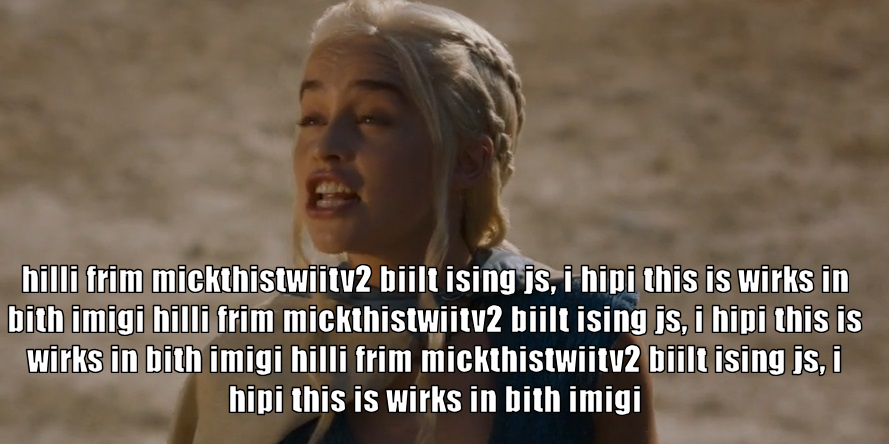
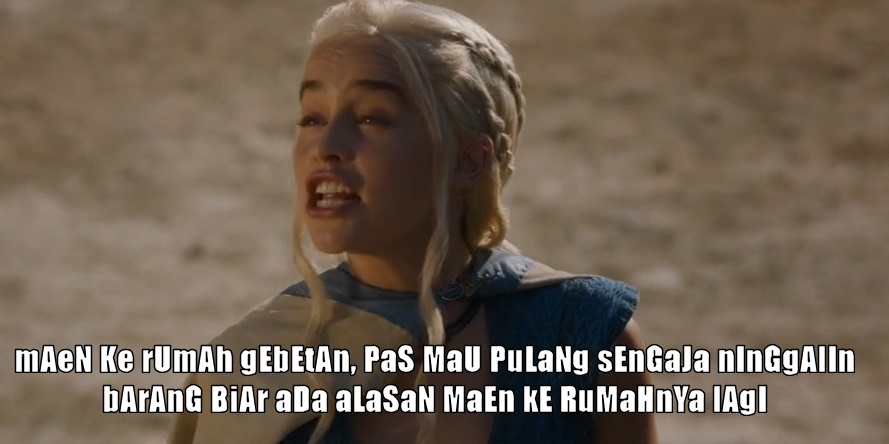
✨ add method to tweet in mocktweet

Changed region(s): [[0.0, 0.5856, 0.9719, 0.9369]]

diff --git a/twitterClient.js b/twitterClient.js
@@ -1,0 +1,57 @@
+const Twit = require('twit');
+const fs = require('fs');
+require('dotenv/config');
+
+const twitterClient = new Twit({
+  consumer_key: process.env.CONSUMER_KEY,
+  consumer_secret: process.env.CONSUMER_SECRET,
+  access_token: process.env.ACCESS_TOKEN,
+  access_token_secret: process.env.ACCESS_TOKEN_SECRET,
+});
+
+const getTargetTweet = async targetTweetId => {
+  return twitterClient
+    .get('statuses/show', { id: targetTweetId, tweet_mode: 'extended' })
+    .then(result => {
+      // @ts-ignore
+      return result.data.full_text;
+    })
+    .catch(err => {
+      console.log(err);
+    });
+};
+
+const updateTweetWithMock = async (replyTargetId, text, img) => {
+  let imgPath = fs.readFileSync(img, {
+    encoding: 'base64',
+  });
+  return twitterClient.post(
+    'media/upload',
+    { media_data: imgPath },
+    (err, media, response) => {
+      if (err) {
+        console.log('Error upload image: ', err);
+      } else {
+        twitterClient.post(
+          'statuses/update',
+          {
+            status: text,
+            auto_populate_reply_metadata: true,
+            in_reply_to_status_id: replyTargetId,
+            // @ts-ignore
+            media_ids: media.media_id_string,
+          },
+          (err, tweet, res) => {
+            if (err) {
+              console.log('Error tweeting: ', err);
+            } else {
+              console.log(`Tweeted: ${text}`);
+            }
+          }
+        );
+      }
+    }
+  );
+};
+
+module.exports = { getTargetTweet, updateTweetWithMock };

diff --git a/playground.js b/playground.js
@@ -1,14 +1,33 @@
 const Memeify = require('./Memeify');
 const TextFormatter = require('./TextFormatter');
+const fs = require('fs');
+const { updateTweetWithMock } = require('./twitterClient');
 
 const textFormatter = new TextFormatter(
-  'hello from mockthistweetv2 built using js, i hope this is works on both image hello from mockthistweetv2 built using js, i hope this is works on both image hello from mockthistweetv2 built using js, i hope this is works on both image'
+  'maen ke rumah gebetan, pas mau pulang sengaja ninggalin barang biar ada alasan maen ke rumahnya lagi'
 );
 
 const mockText = textFormatter.mockText();
-const mickTixt = textFormatter.mickTixt();
 
 const memeGenerator = new Memeify();
 
-memeGenerator.generateMeme('khaleesi', mickTixt);
-memeGenerator.generateMeme('spongebob', mockText);
+const sleep = ms => {
+  return new Promise(resolve => {
+    setTimeout(resolve, ms);
+  });
+};
+
+(async () => {
+  const imgPath = await memeGenerator.generateMeme('khaleesi', mockText);
+  await sleep(1500);
+  updateTweetWithMock('1299324070647873536', mockText, imgPath);
+})();
+
+// memeGenerator.generateMeme('spongebob', mockText);
+
+// const imgPath = fs.readFileSync('./img/mock_spongebob_generated.png');
+// updateTweetWithMock(
+//   '1299524304086818816',
+//   'mockthistweetv2',
+//   './img/mock_spongebob_generated.png'
+// );

diff --git a/Memeify.js b/Memeify.js
@@ -1,16 +1,24 @@
 const Jimp = require('jimp');
 
+const sleep = ms => {
+  return new Promise(resolve => {
+    setTimeout(resolve, ms);
+  });
+};
+
 class Memeify {
-  generateMeme(type, imageCaption) {
+  async generateMeme(type, imageCaption) {
     const image =
-      type == 'spongebob' ? 'img/mock_spongebob.png' : 'img/mock_khaleesi.png';
+      type == 'spongebob'
+        ? './img/mock_spongebob.png'
+        : './img/mock_khaleesi.png';
     const outputImage =
       type == 'spongebob'
-        ? 'img/mock_spongebob_generated.png'
-        : 'img/mock_khaleesi_generated.png';
-    Jimp.read(image)
-      .then(image => {
-        Jimp.loadFont('font/impact.fnt').then(font => {
+        ? './img/mock_spongebob_generated.png'
+        : './img/mock_khaleesi_generated.png';
+    await Jimp.read(image)
+      .then(async image => {
+        await Jimp.loadFont('font/impact.fnt').then(font => {
           let textHeight = Jimp.measureTextHeight(
             font,
             imageCaption,
@@ -29,11 +37,14 @@ class Memeify {
             image.bitmap.height
           );
           image.write(outputImage);
+          console.log('Meme generated');
         });
       })
       .catch(err => {
         console.log(err);
       });
+    await sleep(1500);
+    return outputImage;
   }
 }
 

diff --git a/Mockit.js b/Mockit.js
@@ -1,0 +1,43 @@
+const config = require('./configuration');
+const Memeify = require('./Memeify');
+const TextFormatter = require('./TextFormatter');
+const { getTargetTweet, updateTweetWithMock } = require('./twitterClient');
+const memeGenerator = new Memeify();
+
+async function replyWithMock(event) {
+  if (!event.tweet_create_events) {
+    return;
+  }
+
+  const mention = event.tweet_create_events.shift();
+  const texts = mention.text.split(' ');
+
+  if (texts.length <= 1) {
+    return;
+  }
+
+  if (texts.includes('RT')) {
+    return;
+  }
+
+  if (texts.includes('please')) {
+    let targetUser = mention.in_reply_to_user_id_str;
+    targetUser = Number(targetUser);
+
+    if (config.exclusive_ids.includes(targetUser)) {
+      return;
+    } else {
+      let targetTweetId = mention.in_reply_to_status_id_str;
+      const targetTweet = await getTargetTweet(targetTweetId);
+
+      const textFormatter = new TextFormatter(targetTweet);
+      const mockText = textFormatter.mockText();
+
+      const imagePath = await memeGenerator.generateMeme('spongebob', mockText);
+
+      updateTweetWithMock(mention.id_str, mockText, imagePath);
+    }
+  }
+}
+
+module.exports = { replyWithMock };

diff --git a/app.js b/app.js
@@ -1,10 +1,9 @@
 const { Autohook } = require('twitter-autohook');
+const { replyWithMock } = require('./Mockit');
 require('dotenv/config');
 
 (async start => {
   try {
-    const webhookURL = `https://${process.env.PROJECT_DOMAIN}.glitch.me/webhook`;
-
     const webhook = new Autohook({
       consumer_key: process.env.CONSUMER_KEY,
       consumer_secret: process.env.CONSUMER_SECRET,
@@ -17,18 +16,10 @@ require('dotenv/config');
 
     // @ts-ignore
     webhook.on('event', async event => {
-      if (event.tweet_create_events) {
-        let mention = event.tweet_create_events.shift();
-        const texts = mention.text.split(' ');
-        console.log(texts);
-        if (texts.includes('please')) {
-          console.log('i shall mock this');
-        }
-      }
+      await replyWithMock(event);
     });
 
     await webhook.removeWebhooks();
-
     await webhook.start();
 
     await webhook.subscribe({

diff --git a/TextFormatter.js b/TextFormatter.js
@@ -1,6 +1,12 @@
 class TextFormatter {
   constructor(inputText) {
-    this.text = this._removeBadChars(inputText);
+    this.text = this._removeUrl(inputText);
+    this.text = this.text = this._removeBadChars(this.text);
+  }
+
+  _removeUrl(text) {
+    const regex = /(?:https?):\/\/[\n\S]+/g;
+    return text.replace(regex, '');
   }
 
   _removeBadChars(text) {

diff --git a/configuration.js b/configuration.js
@@ -1,0 +1,5 @@
+const config = {
+  exclusive_ids: [1157825461277167616, 1012117785512558592],
+};
+
+module.exports = config;
